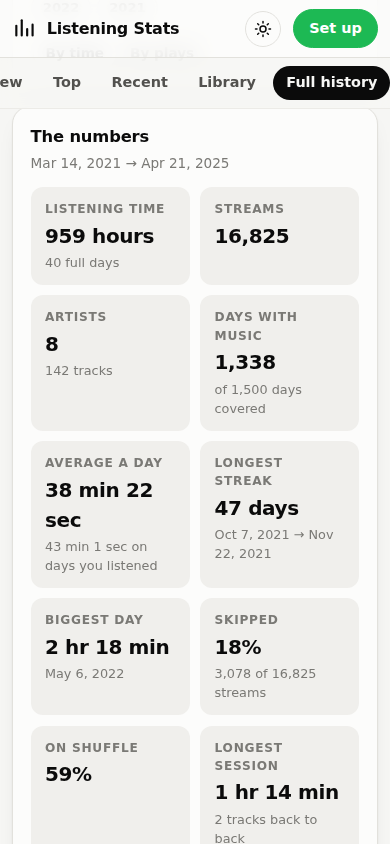
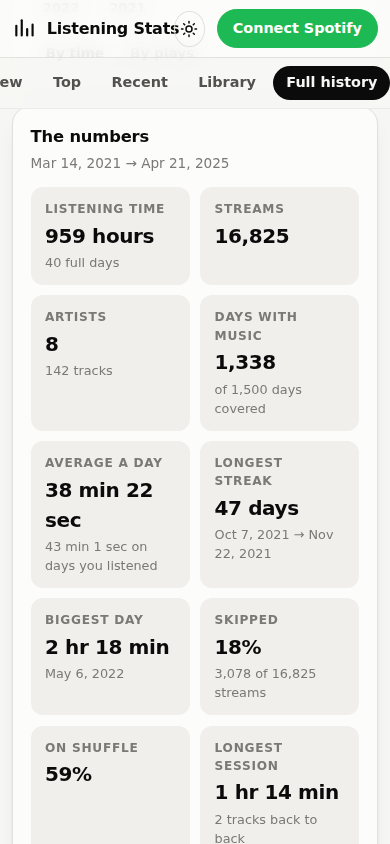
Rank every artist against the rest of your listening
Each artist now carries where it sits in your own history: its rank, the
percentile that follows from it, and its share of your time. They show
under every artist in the Full history list, in the artist drill-down,
and on the Top tab's cards.

This is the honest version of Wrapped's "top 1% of listeners". That one
is computed inside Spotify against everyone who played the artist, and
no Web API endpoint exposes it — not listener counts, not monthly
listeners, nothing you could derive it from. So the modal says plainly
that the figure is about your own listening and why the worldwide one
can't be shown, rather than inventing a number that looks like it.

Two details worth naming: ties share a rank, so two artists on identical
time can't land in different percentiles by sort luck; and a library
under 20 artists shows "#3 of 8" instead, because a percentile of eight
names is noise.

The drill-down also stops re-aggregating the whole history on every open
— it reads the cached whole-source aggregate, which is what "your #3
artist" should mean anyway, not the year currently filtered on screen.

Claude-Session: https://claude.ai/code/session_01FLueCSv5fJ5mhSbLhh4jpb

Changed region(s): [[0.5538, 0.0, 0.9231, 0.0616], [0.4615, 0.0308, 0.4923, 0.0616]]

diff --git a/spotify/js/app.js b/spotify/js/app.js
@@ -157,6 +157,29 @@
     return util.duration(ms);
   }
 
+  /* "Top 0.4%" is only meaningful against a decent pool of artists; with a
+     handful of names it is noise, so a small pool gets the plain rank. */
+  /* The 0.95 cut keeps consecutive rows from reading "1.0%, 1%, 1%": anything
+     that would round to a whole number is shown as one. */
+  function percentText(value) {
+    if (value < 0.1) return value.toFixed(2) + "%";
+    if (value < 0.95) return value.toFixed(1) + "%";
+    return Math.round(value) + "%";
+  }
+
+  function rankLabel(artist, total) {
+    if (!artist || !artist.rank) return null;
+    if (total < 20) return "#" + artist.rank + " of " + total;
+    return "top " + percentText(artist.topPercent);
+  }
+
+  /* Kept short: this sits on one ellipsised line beside the artist name. */
+  function shareLabel(artist) {
+    if (!artist || !artist.share) return null;
+    var pct = artist.share * 100;
+    return (pct < 0.1 ? pct.toFixed(2) : pct.toFixed(1)) + "% of your time";
+  }
+
   function artistsOf(track) {
     return (track.artists || []).map(function (a) { return a.name; }).join(", ");
   }
@@ -228,6 +251,8 @@
       ]));
     }
 
+    /* Not blocking: the log only feeds the "Yours:" line when there's no export. */
+    ensure("log", loadLog);
     var key = "top:" + state.range;
     if (!ensure(key, function () {
       return Promise.all([api.top("artists", state.range), api.top("tracks", state.range)])
@@ -348,6 +373,8 @@
         "(0–100, how much everyone else plays it) — a rank on its own isn't a quantity worth drawing." })
     ]));
 
+    /* Not blocking: the log only feeds the "Yours:" line when there's no export. */
+    ensure("log", loadLog);
     var key = "top:" + state.range;
     if (!ensure(key, function () {
       return Promise.all([api.top("artists", state.range), api.top("tracks", state.range)])
@@ -368,6 +395,7 @@
           el("span", { class: "thing-rank", text: "#" + (index + 1) }),
           el("span", { class: "thing-name", text: artist.name, title: artist.name }),
           el("span", { class: "thing-sub", text: (artist.genres || []).slice(0, 2).join(", ") || "—" }),
+          yoursLine(artist.name),
           el("span", { class: "meter" }, [el("span", { style: "width:" + (artist.popularity || 0) + "%" })])
         ]);
       }))
@@ -422,6 +450,16 @@
         labelHead: "Release year", valueHead: "Tracks", height: 180
       })
     ]));
+  }
+
+  /* How far up your own listening an artist sits, for the cards on the Top
+     tab \u2014 blank when nothing all-time knows the name yet. */
+  function yoursLine(name) {
+    var found = rankedArtist(name);
+    if (!found) return null;
+    var label = rankLabel(found.artist, found.stats.uniqueArtists);
+    return el("span", { class: "thing-sub", text: "Yours: " + label + " \u00b7 " +
+      (found.artist.share * 100).toFixed(1) + "%" });
   }
 
   /* ---- recent ---- */
@@ -772,11 +810,14 @@
         charts.rankBars(past.topList(stats.artists, 20, state.history.metric), {
           value: metricValue, label: function (a) { return a.name; },
           format: metricFormat, art: function (a) { return a.art; },
-          meta: function (a) { return util.int(a.plays) + " plays · since " + util.dayLabel(util.dateKey(new Date(a.first))); },
+          meta: function (a) {
+            return [shareLabel(a), rankLabel(a, stats.uniqueArtists)].filter(Boolean).join(" · ");
+          },
           labelHead: "Artist", valueHead: metricHead(),
           onSelect: function (a) { showArtist(a.name); },
           tip: function (a) {
-            return "<b>" + escape(a.name) + "</b><br>" + util.duration(a.ms) + " · " + util.int(a.plays) + " plays";
+            return "<b>" + escape(a.name) + "</b><br>" + util.duration(a.ms) + " · " +
+              util.int(a.plays) + " plays<br>since " + util.dayLabel(util.dateKey(new Date(a.first)));
           }
         })
       ]),
@@ -1247,21 +1288,29 @@
   /* ---- artist drill-down ---- */
 
   function showArtist(name, apiArtist) {
-    var records = activeRecords();
-    var stats = records.length ? past.aggregate(records) : null;
+    /* Always the whole source, never the year filter: "your #3 artist" and
+       "first heard" mean your listening, not the slice on screen. And it's the
+       cached aggregate, so opening this is free. */
+    var stats = activeRecords().length ? sourceStats() : null;
     var detail = stats ? past.artistDetail(stats, name) : null;
 
     var body = el("div", {});
     if (detail) {
       var artist = detail.artist;
       body.appendChild(charts.tiles([
+        { label: "You rank them", value: "#" + artist.rank,
+          note: "of " + util.int(stats.uniqueArtists) + " artists you've played" },
+        stats.uniqueArtists >= 20
+          ? { label: "Top", value: percentText(artist.topPercent), note: "of the artists you play" }
+          : null,
+        { label: "Share of your listening", value: (artist.share * 100).toFixed(1) + "%" },
         { label: "Listening time", value: util.duration(artist.ms) },
         { label: "Streams", value: util.int(artist.plays) },
         { label: "Different tracks", value: util.int(detail.tracks.length) },
         { label: "First heard", value: util.dayLabel(util.dateKey(new Date(artist.first))) },
-        { label: "Last heard", value: util.dayLabel(util.dateKey(new Date(artist.last))) },
-        { label: "Share of everything", value: (artist.ms / stats.ms * 100).toFixed(1) + "%" }
-      ]));
+        { label: "Last heard", value: util.dayLabel(util.dateKey(new Date(artist.last))) }
+      ].filter(Boolean)));
+
       if (detail.years.length > 1) {
         body.appendChild(charts.columns(detail.years.map(function (year) {
           return { name: String(year.year), value: year.ms };
@@ -1278,11 +1327,21 @@
     }
 
     if (apiArtist) {
-      body.appendChild(el("p", { class: "small muted", text:
-        [(apiArtist.genres || []).join(", "),
-         apiArtist.followers ? util.int(apiArtist.followers.total) + " followers on Spotify" : null]
-          .filter(Boolean).join(" · ") }));
+      var world = [];
+      if (apiArtist.followers) world.push(util.int(apiArtist.followers.total) + " followers on Spotify");
+      if (apiArtist.popularity !== undefined) world.push(apiArtist.popularity + "/100 popularity");
+      body.appendChild(el("p", { class: "small muted", style: "margin-top:.9rem", text:
+        [(apiArtist.genres || []).join(", ")].concat(world).filter(Boolean).join(" \u00b7 ") }));
     }
+
+    if (detail) {
+      body.appendChild(el("p", { class: "small muted", text:
+        "These percentages are about your own listening. Spotify works out the " +
+        "\u201ctop 1% of listeners worldwide\u201d figure for Wrapped against everyone " +
+        "who played the artist, and never publishes it \u2014 no API gives out " +
+        "listener counts or percentiles, so no app outside Spotify can show it." }));
+    }
+
     openModal(name, body);
   }
 
@@ -1499,6 +1558,28 @@
         poll(false).then(function (added) { if (added) refresh(); }).catch(function () { /* quiet */ });
       }
     });
+  }
+
+  /* The all-time picture for views outside the history tab: the export when
+     there is one, otherwise whatever the play log has managed to collect. */
+  function allTimeStats() {
+    var imported = lifetimeStats();
+    if (imported) return imported;
+    if (state.log && state.log.length) {
+      if (!state._logStats || state._logStatsFor !== state.log.length) {
+        state._logStats = past.aggregate(state.log);
+        state._logStatsFor = state.log.length;
+      }
+      return state._logStats;
+    }
+    return null;
+  }
+
+  function rankedArtist(name) {
+    var stats = allTimeStats();
+    if (!stats) return null;
+    var artist = stats.artists.get(name);
+    return artist ? { artist: artist, stats: stats } : null;
   }
 
   function lifetimeStats() {

diff --git a/spotify/test/history.test.js b/spotify/test/history.test.js
@@ -157,9 +157,34 @@ var top = SP.history.topList(stats.artists, 5);
 check("top artists: order", top.map(function (t) { return t.name; }), ["Artist A", "Artist B"]);
 checkTrue("top artists: A ahead of B", top[0].ms > top[1].ms);
 
+/* Per-artist standing: rank, share of your listening, and the percentile that
+   stands in for Wrapped's unavailable "top x% of listeners". */
+check("rank: artists are ranked by time", stats.rankedArtists.map(function (a) { return a.name; }), ["Artist A", "Artist B"]);
+check("rank: top artist is #1", stats.rankedArtists[0].rank, 1);
+check("rank: shares sum to 1", Math.round(stats.rankedArtists.reduce(function (sum, a) { return sum + a.share; }, 0) * 1000) / 1000, 1);
+check("rank: share matches the time", Math.round(stats.artists.get("Artist A").share * 1000) / 1000,
+  Math.round(stats.artists.get("Artist A").ms / stats.ms * 1000) / 1000);
+check("rank: last artist is the 100th percentile", stats.rankedArtists[1].topPercent, 100);
+
+/* Ties must not be split by sort luck: equal time, equal rank and percentile. */
+var tieRows = [];
+[["Even A", 3], ["Even B", 3], ["Quiet", 1]].forEach(function (pair) {
+  for (var i = 0; i < pair[1]; i++) {
+    tieRows.push({ ts: new Date(Date.UTC(2024, 0, 1 + i, 12)).toISOString(), ms_played: 120000,
+      master_metadata_track_name: "T", master_metadata_album_artist_name: pair[0],
+      master_metadata_album_album_name: "A", spotify_track_uri: "spotify:track:" + pair[0] });
+  }
+});
+var tied = SP.history.aggregate(SP.history.parseFile(JSON.stringify(tieRows)));
+check("rank: tied artists share a rank", tied.rankedArtists.slice(0, 2).map(function (a) { return a.rank; }), [1, 1]);
+check("rank: tied artists share a percentile",
+  tied.rankedArtists[0].topPercent === tied.rankedArtists[1].topPercent, true);
+check("rank: the next artist keeps its own place", tied.rankedArtists[2].rank, 3);
+
 var detail = SP.history.artistDetail(stats, "Artist A");
 check("artist detail: track count", detail.tracks.length, 2);
 check("artist detail: years", detail.years.length, 1);
+check("artist detail: carries the ranking", detail.artist.rank, 1);
 
 /* A minimum-play filter is how "did I actually listen" gets separated from
    "it started and I hit next". */

diff --git a/spotify/js/history.js b/spotify/js/history.js
@@ -309,6 +309,8 @@ SP.history = (function () {
     stats.sessions = sessions;
     stats.longestSession = longest;
 
+    rankArtists(stats);
+
     stats.yearList = Array.from(stats.years.values()).sort(function (a, b) { return a.year - b.year; });
     stats.yearList.forEach(function (year) {
       year.topArtist = biggest(year.artists);
@@ -321,6 +323,30 @@ SP.history = (function () {
     stats.monthList = Array.from(stats.months.values()).sort(function (a, b) {
       return a.key < b.key ? -1 : 1;
     });
+  }
+
+  /* Where each artist sits among all the artists in this selection.
+
+     This is the honest version of Wrapped's "top 0.5% of listeners": Spotify
+     works that one out against everyone who played the artist and never
+     publishes it — no Web API endpoint exposes listener counts or
+     percentiles. What can be said truthfully is how the artist ranks inside
+     your own listening, so that is what these three numbers are. */
+  function rankArtists(stats) {
+    var ranked = Array.from(stats.artists.values())
+      .sort(function (a, b) { return b.ms - a.ms || b.plays - a.plays; });
+
+    ranked.forEach(function (artist, index) {
+      artist.rank = index + 1;
+      artist.share = stats.ms ? artist.ms / stats.ms : 0;
+      /* Ties share the better rank, so two artists on identical time don't
+         land in different percentiles by sort luck. */
+      var tied = index > 0 && ranked[index - 1].ms === artist.ms;
+      if (tied) artist.rank = ranked[index - 1].rank;
+      artist.topPercent = ranked.length ? (artist.rank / ranked.length) * 100 : 100;
+    });
+
+    stats.rankedArtists = ranked;
   }
 
   function biggest(map) {

diff --git a/spotify/README.md b/spotify/README.md
@@ -14,7 +14,7 @@ Live at **/spotify/** on this site.
 | **Top** | Your top 50 artists and tracks over 4 weeks / 6 months / all time, the genres behind them, and when those tracks were released |
 | **Recent** | Every play this app has logged, a weekday-by-hour heatmap, most-played artists and tracks, and a full timeline |
 | **Library** | Saved tracks, albums, playlists and follows; when you saved things; which artists and release years fill your library |
-| **Full history** | Your entire listening life from a Spotify data export: lifetime hours, streaks, top artists/tracks/albums, year-by-year and month-by-month, a listening clock, a calendar per year, skip and shuffle rates, platforms, countries, and search over every stream |
+| **Full history** | Your entire listening life from a Spotify data export: lifetime hours, streaks, top artists/tracks/albums, where each artist ranks in your listening, year-by-year and month-by-month, a listening clock, a calendar per year, skip and shuffle rates, platforms, countries, and search over every stream |
 | **Setup** | Client ID, connection, what's stored on this device, and how to wipe it |
 
 ## Add it to your home screen
@@ -94,6 +94,27 @@ so where those stats appear.
 Audio features (danceability, energy, tempo) are **not** here: Spotify
 deprecated `/audio-features` for new apps in November 2024, and any app created
 since gets a 403.
+
+## "Top 1% of listeners" — why this app can't show that
+
+Wrapped's line about being in the top fraction of an artist's listeners is
+computed inside Spotify against everyone who played them. **No Web API endpoint
+exposes it**, or monthly listeners, or any listener count you could derive it
+from — so no third-party app can show that number, and one that claims to is
+making it up.
+
+What every artist does carry here is your own standing, which is real and
+computable from your history:
+
+- **Your rank** — #3 of the 412 artists you have played.
+- **The percentile that follows from it** — "top 0.7% of the artists you play".
+  Ties share a rank, and a library under 20 artists shows the plain rank
+  instead, since a percentile of eight names means nothing.
+- **Share of your time** — what fraction of all your listening went to them.
+
+They appear under every artist in the Full history list, in the artist
+drill-down, and on the Top tab's artist cards (as `Yours:`), drawn from your
+imported export or, failing that, from the play log.
 
 ## Where your data lives
 
